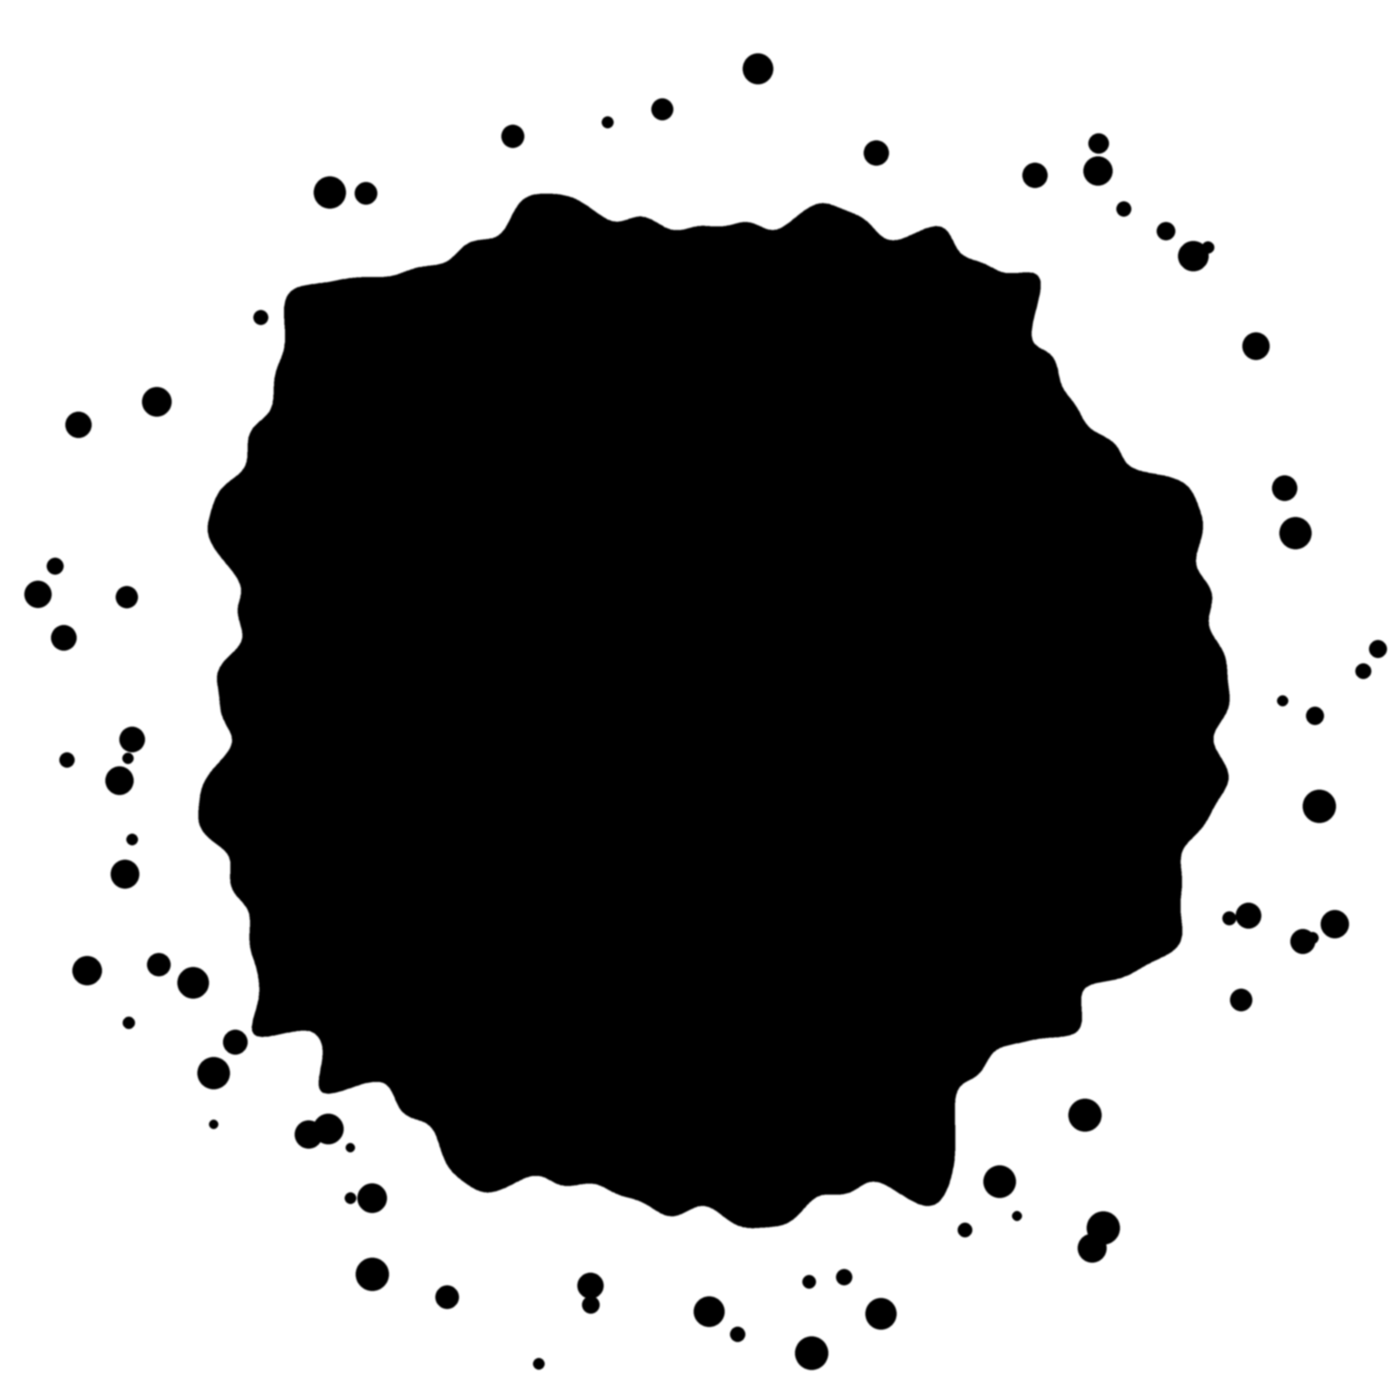
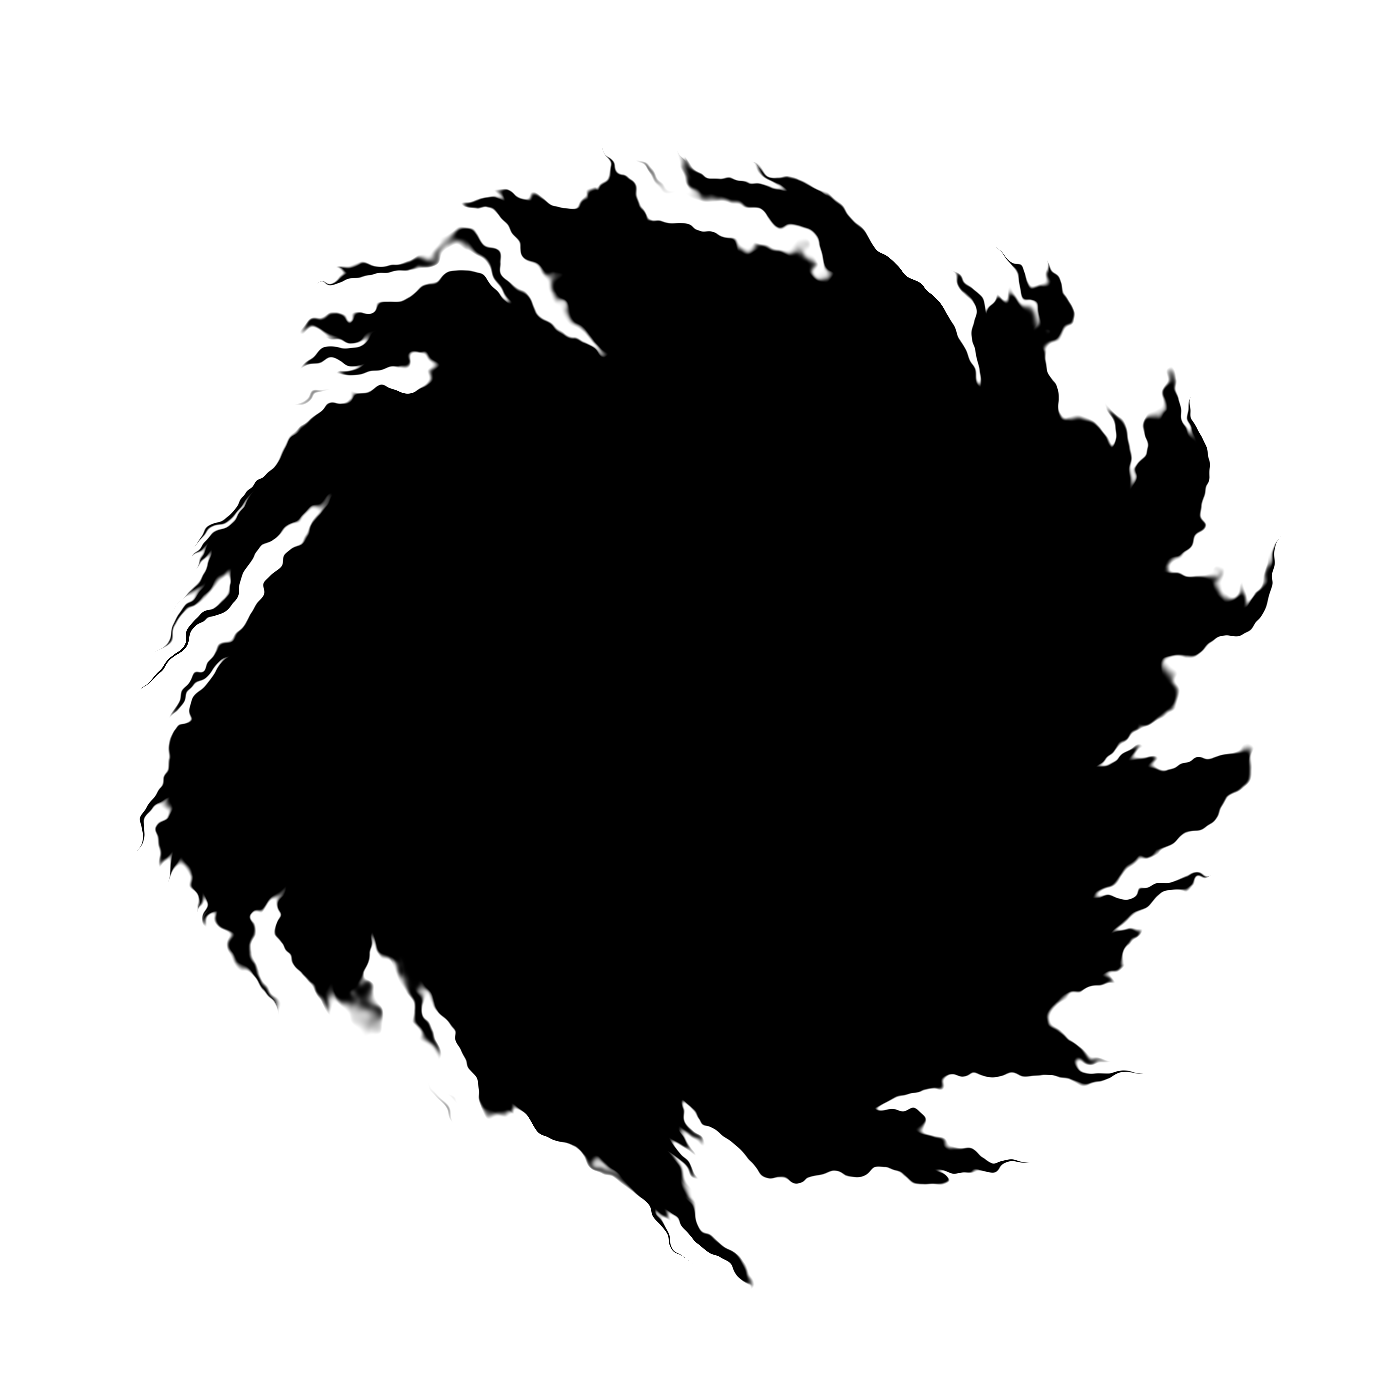
Make the theme switch slower ink-in-water with a glowing rim
The ink mask is now built from twisted filament noise, so the new theme
spreads in swirling wisps instead of a round blot. A blue-violet glow
rides on the ink's edge as its own view-transition layer (same geometry,
same keyframes) and fades out before the transition ends. The switch now
takes 2.6s with an even ease.

diff --git a/assets/css/styles.css b/assets/css/styles.css
@@ -1169,13 +1169,24 @@ html.theme-switching *, html.theme-switching *::before, html.theme-switching *::
 .panel:hover .trio-chip, .panel.is-live .trio-chip { transform: translateY(-6px); }
 @media (max-width: 900px) { .trio-shots { aspect-ratio: 16 / 12; } .trio-phone { border-radius: 12px; } .trio-chip { font-size: .6875rem; padding: 5px 10px; } }
 
-/* Theme switch: the new theme spreads from the toggle like ink (View Transitions; see main.js) */
+/* Theme switch: the new theme spreads from the toggle like ink in water, with a glowing rim (View Transitions; see main.js) */
 html.ink-switch::view-transition-old(root),
 html.ink-switch::view-transition-new(root) { animation: none; mix-blend-mode: normal; }
 html.ink-switch::view-transition-new(root) {
   -webkit-mask: url("../img/ink-mask.png") no-repeat; mask: url("../img/ink-mask.png") no-repeat;
-  animation: ink-spread 1.1s cubic-bezier(.65, 0, .35, 1) both;
+  animation: ink-spread 2.6s cubic-bezier(.5, 0, .5, 1) both;
 }
+.ink-glow {
+  position: fixed; inset: 0; z-index: 2147483000; pointer-events: none; view-transition-name: ink-glow;
+  background: radial-gradient(120% 120% at var(--ink-x) var(--ink-y), #19D3FF, #2F7BFF 45%, #6B4BFF 80%);
+  -webkit-mask: url("../img/ink-glow.png") no-repeat; mask: url("../img/ink-glow.png") no-repeat;
+  -webkit-mask-size: 0 0; mask-size: 0 0; -webkit-mask-position: var(--ink-x) var(--ink-y); mask-position: var(--ink-x) var(--ink-y);
+  opacity: 0;
+}
+.ink-glow.is-on { animation: ink-spread 2.6s cubic-bezier(.5, 0, .5, 1) both, ink-glow-fade 2.6s linear both; }
+html.ink-switch::view-transition-group(ink-glow) { animation: none; }
+html.ink-switch::view-transition-old(ink-glow), html.ink-switch::view-transition-new(ink-glow) { animation: none; }
+@keyframes ink-glow-fade { 0% { opacity: 0; } 6% { opacity: .9; } 75% { opacity: .8; } 100% { opacity: 0; } }
 @keyframes ink-spread {
   from { -webkit-mask-size: 0 0; mask-size: 0 0; -webkit-mask-position: var(--ink-x) var(--ink-y); mask-position: var(--ink-x) var(--ink-y); }
   to {

diff --git a/assets/js/main.js b/assets/js/main.js
@@ -102,10 +102,15 @@
     const reach = Math.hypot(Math.max(x, innerWidth - x), Math.max(y, innerHeight - y));
     doc.style.setProperty('--ink-x', `${x}px`);
     doc.style.setProperty('--ink-y', `${y}px`);
-    doc.style.setProperty('--ink-s', `${Math.ceil(reach / 0.31)}px`); // the blot's inner edge sits at 31% of the image
+    doc.style.setProperty('--ink-s', `${Math.ceil(reach / 0.25)}px`); // the ink is solid out to 25% of the image
     doc.classList.add('ink-switch');
-    const vt = document.startViewTransition(flipTheme);
-    vt.finished.finally(() => doc.classList.remove('ink-switch', 'theme-switching'));
+    // A glowing rim rides on the ink's edge: its own layer, masked by the same geometry.
+    const glow = document.createElement('div');
+    glow.className = 'ink-glow';
+    glow.setAttribute('aria-hidden', 'true');
+    const vt = document.startViewTransition(() => { flipTheme(); document.body.appendChild(glow); });
+    vt.ready.then(() => glow.classList.add('is-on')).catch(() => {});
+    vt.finished.finally(() => { glow.remove(); doc.classList.remove('ink-switch', 'theme-switching'); });
   });
   const syncLangBtn = () => {
     if (!langBtn) return;
